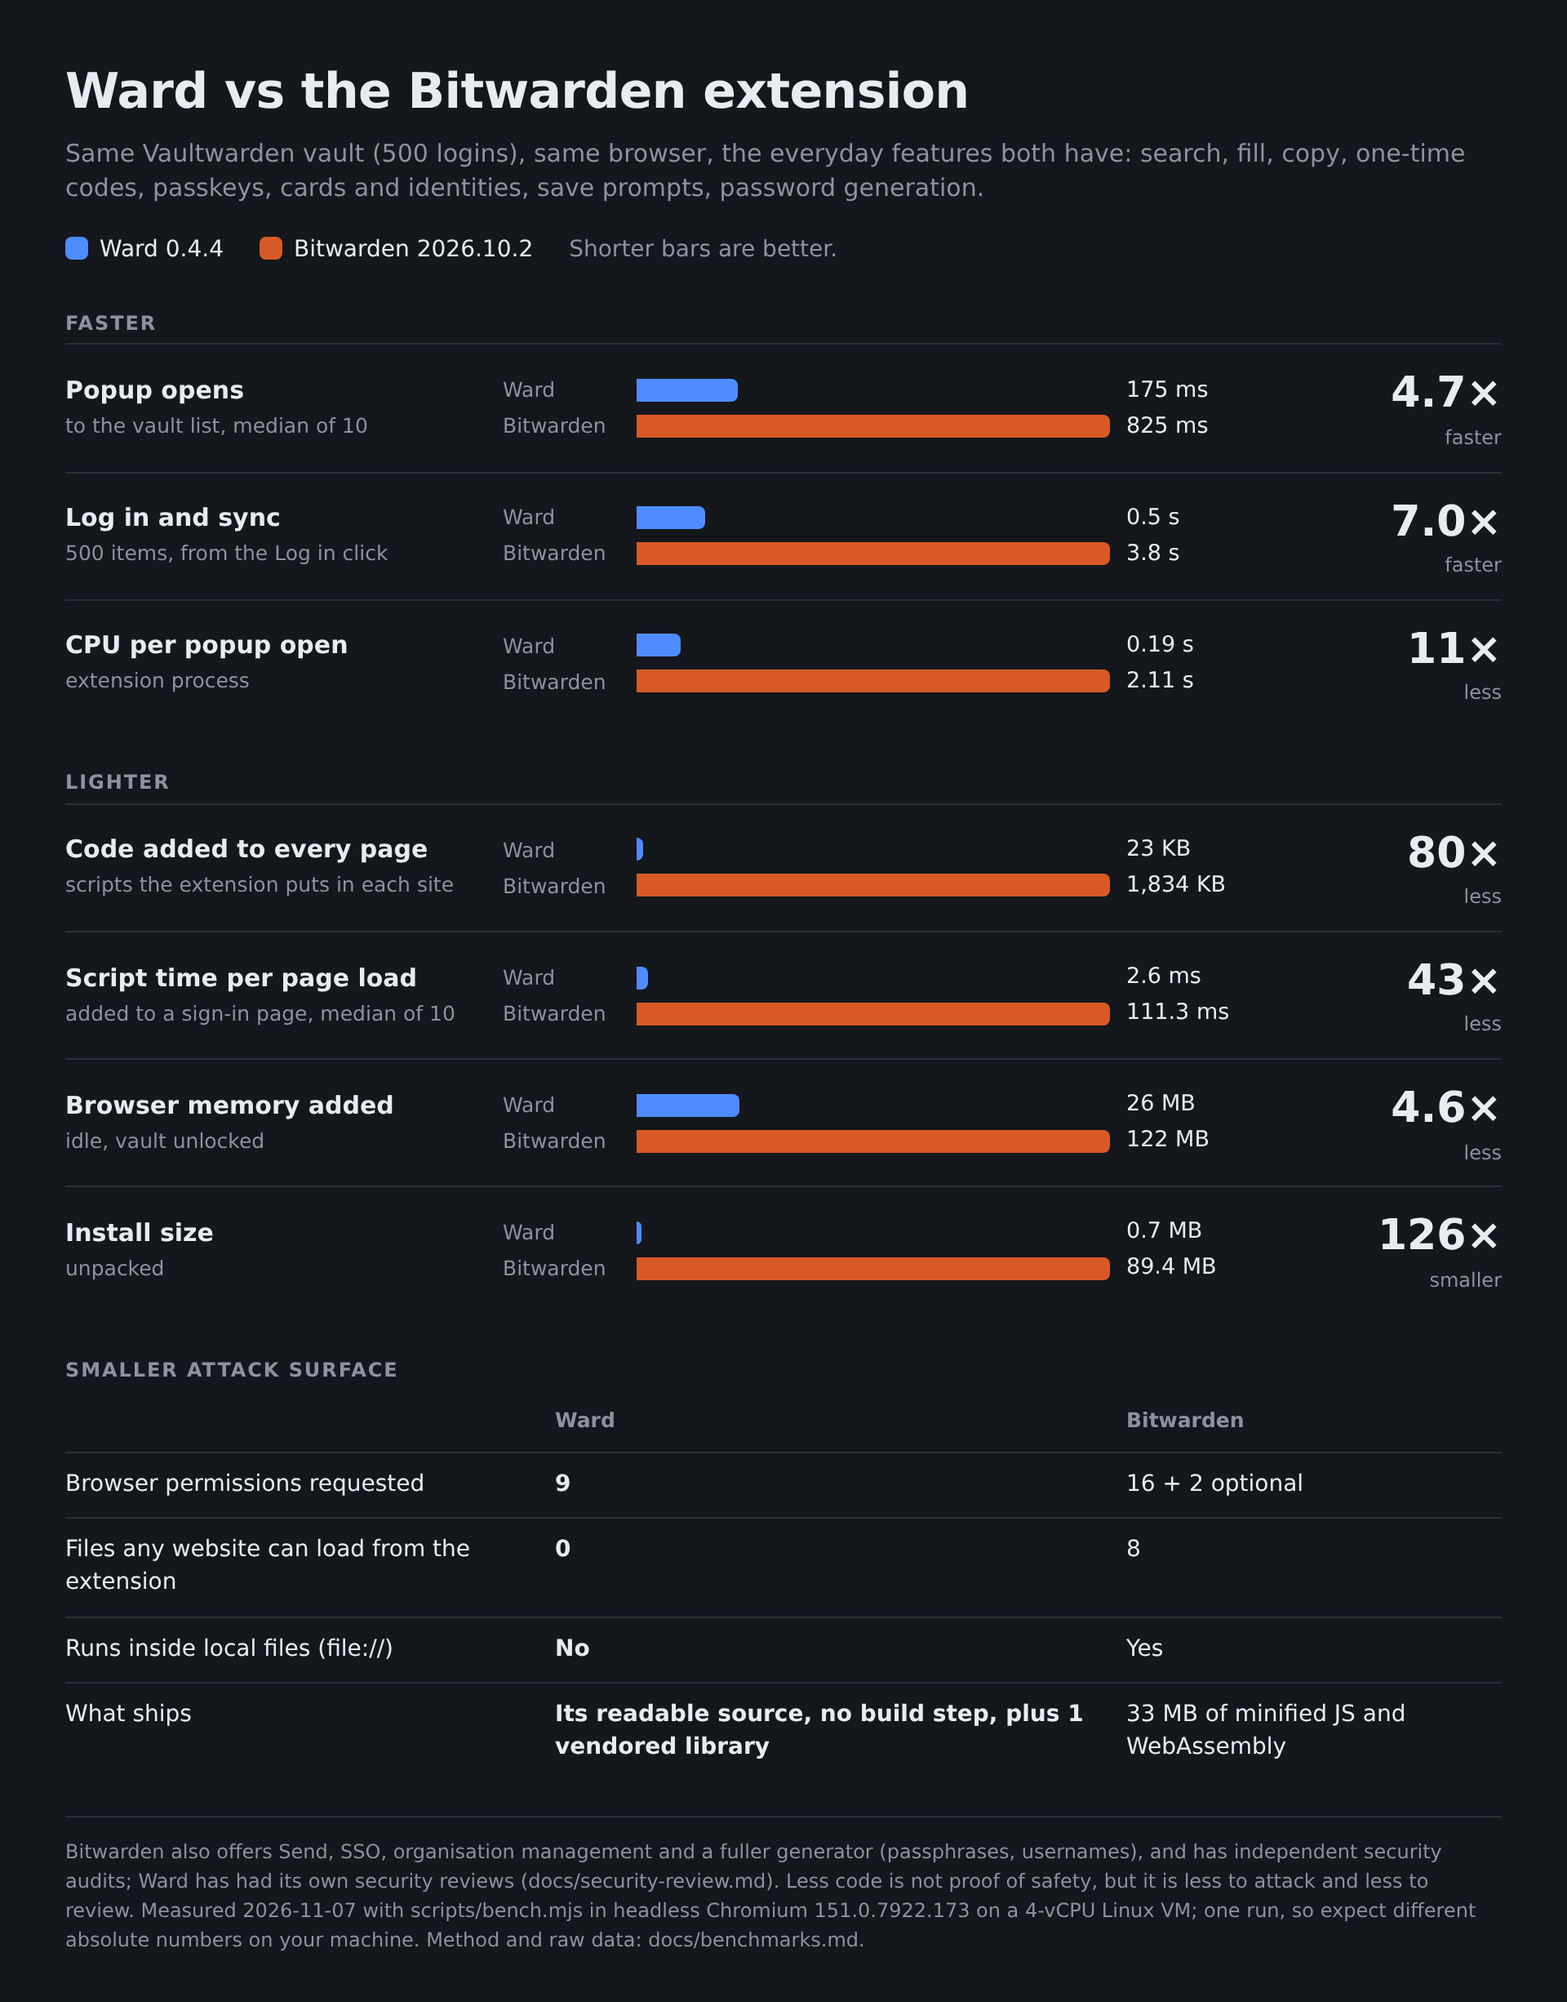
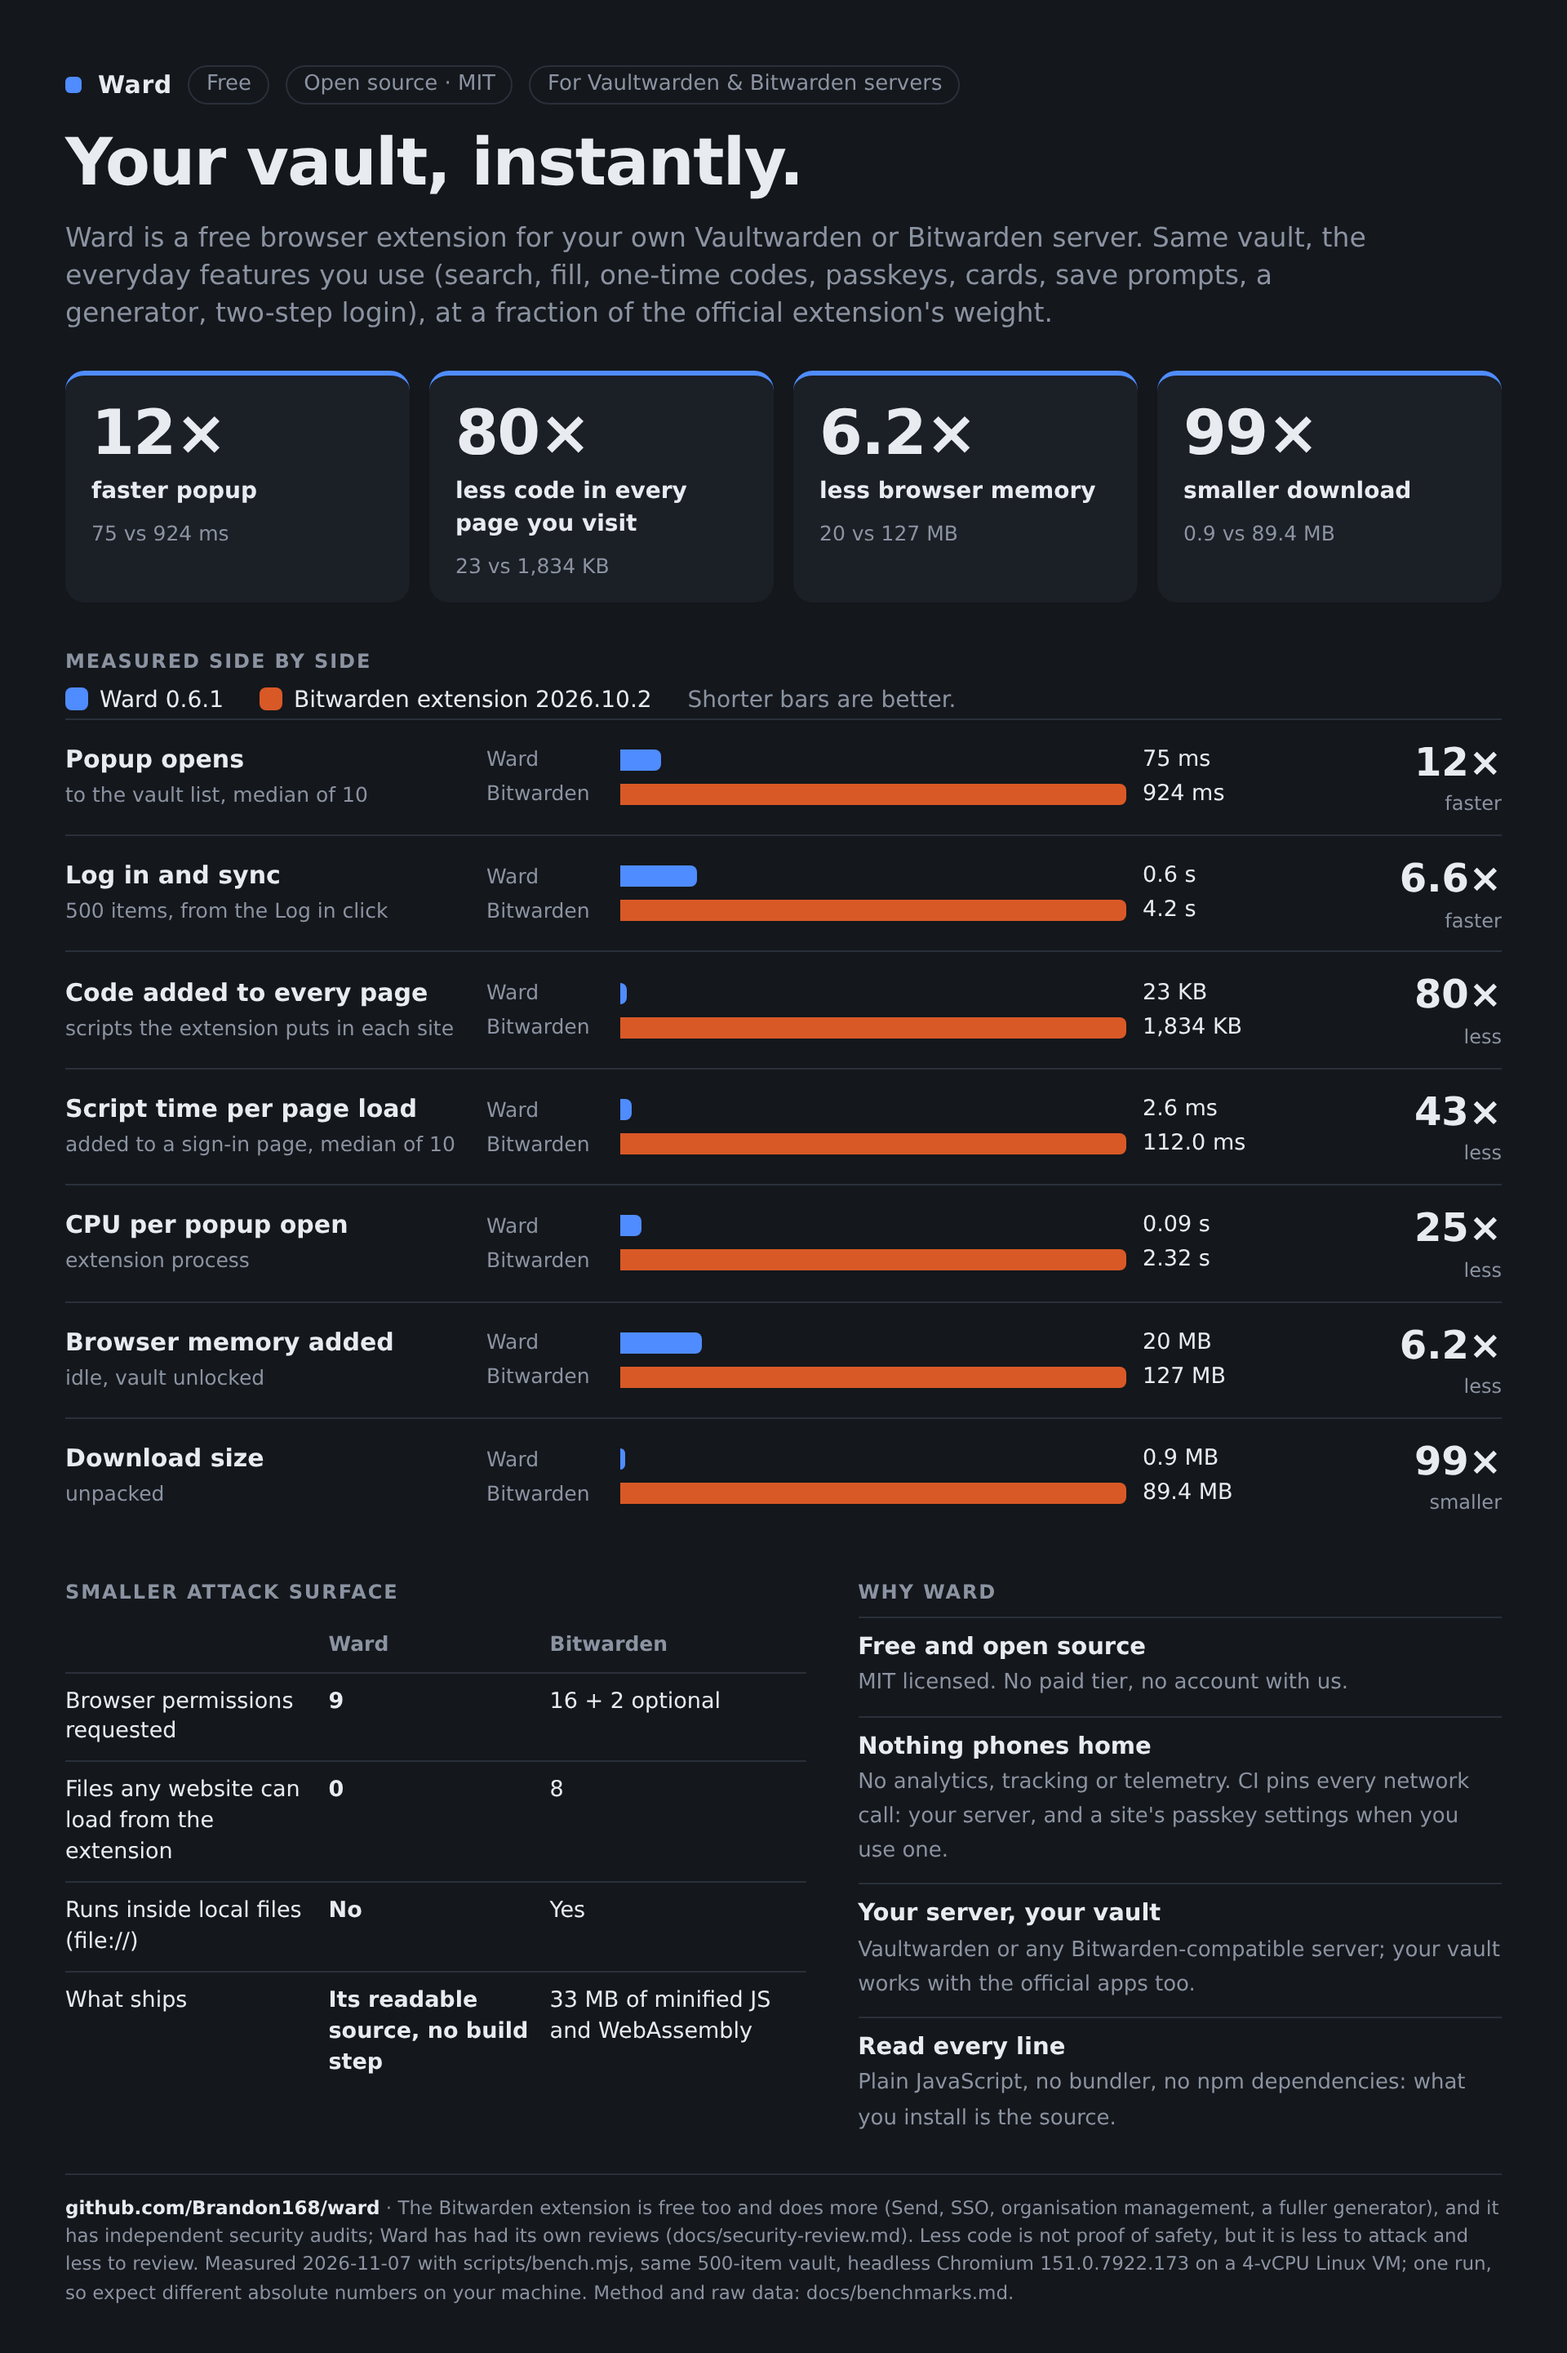
README and comparison image for Ward 0.6.1 vs Bitwarden; search-friendly README; social preview
- Fresh benchmark (Ward 0.6.1 vs Bitwarden 2026.10.2, 500 items): popup 12x faster, 80x less code per page, 6.2x less
  memory, 99x smaller download. docs/benchmarks.md and benchmark-results.json updated.
- Comparison image redesigned to make the case: headline, four headline numbers, the measured bars, attack surface,
  and "Why Ward" (free and MIT, no telemetry, your own server, readable source; each claim checked against the repo).
  The honest footnote stays.
- README: keyword-bearing H1 and opening; the image, its alt text (with the numbers) and the same numbers as a text
  table are generated by compare-image.mjs between compare:start/end markers, so crawlers and screen readers get
  what the image shows. "What it does today" is now "Features".
- docs/social-preview.png (1280x640) for link previews; upload by hand in GitHub Settings > Social preview.
- scripts/cdp.mjs: a script killed by Ctrl-C or timeout now takes its Chromium with it (orphans skewed measurements).

diff --git a/README.md b/README.md
@@ -1,25 +1,42 @@
-# Ward
+# Ward: a fast, lightweight Vaultwarden and Bitwarden browser extension
 
-A fast, lean browser extension for a self-hosted [Vaultwarden](https://github.com/dani-garcia/vaultwarden)
-(or any Bitwarden-compatible) server. The goal is 1Password-style speed and polish on a server you own:
-instant search and fill, offline use, Touch ID unlock, and live sync.
+**Ward is a free, open-source (MIT) password manager extension for Chrome, Vivaldi, Edge, Brave and other Chromium
+browsers**, for your self-hosted [Vaultwarden](https://github.com/dani-garcia/vaultwarden) or any Bitwarden-compatible
+server. It searches and autofills logins, one-time codes (TOTP), passkeys, cards and identities, offers to save new
+logins, generates passwords and passphrases, and handles two-step login, with 1Password-style speed: instant search
+and fill, offline use, Touch ID unlock and live sync.
 
 Ward is plain JavaScript with no framework, no bundler and no npm dependencies. The files in this repository
-are exactly what the browser runs, so a release can be reviewed line by line.
+are exactly what the browser runs, so a release can be reviewed line by line. No analytics, no tracking, no telemetry.
 
 Developed and tested on **Vivaldi on macOS**; any Chromium browser (121 or newer) should work. Firefox is not a
 target yet.
 
-## How it compares
+## Ward vs the Bitwarden browser extension
 
+<!-- compare:start: generated by scripts/compare-image.mjs from docs/benchmark-results.json; edit there, not here -->
 <picture>
 <source media="(prefers-color-scheme: dark)" srcset="docs/ward-vs-bitwarden-dark.png">
-<img src="docs/ward-vs-bitwarden-light.png" width="720" alt="Ward vs the Bitwarden extension on the same 500-item vault: popup opens in 175 ms vs 825 ms (4.7 times faster), log in and sync 0.5 s vs 3.8 s, 23 KB vs 1,834 KB of code added to every page (80 times less), 2.6 ms vs 111 ms script time per page load, 26 MB vs 122 MB browser memory added, 0.7 MB vs 89 MB install size. Attack surface: 9 vs 16 browser permissions, 0 vs 8 files any website can load from the extension, does not run inside local files, ships its readable source.">
+<img src="docs/ward-vs-bitwarden-light.png" width="720" alt="Ward 0.6.1 vs the Bitwarden browser extension 2026.10.2 on the same 500-item vault: popup opens 75 ms vs 924 ms (12 times faster); log in and sync 0.6 s vs 4.2 s (6.6 times faster); code added to every page 23 KB vs 1,834 KB (80 times less); script time per page load 2.6 ms vs 112.0 ms (43 times less); CPU per popup open 0.09 s vs 2.32 s (25 times less); browser memory added 20 MB vs 127 MB (6.2 times less); download size 0.9 MB vs 89.4 MB (99 times smaller). Attack surface: browser permissions requested 9 vs 16 + 2 optional; files any website can load from the extension 0 vs 8; runs inside local files (file://) No vs Yes.">
 </picture>
 
-Same machine, same vault, the everyday features both have. Bitwarden does more (Send, SSO, organisations, a fuller
-generator) and has independent audits, so this isn't a like-for-like feature comparison. Method, caveats and the
-numbers as tables: [docs/benchmarks.md](docs/benchmarks.md).
+| Measured on the same 500-item vault | Ward 0.6.1 | Bitwarden extension 2026.10.2 | |
+|---|---:|---:|---:|
+| Popup opens | **75 ms** | 924 ms | 12× faster |
+| Log in and sync | **0.6 s** | 4.2 s | 6.6× faster |
+| Code added to every page | **23 KB** | 1,834 KB | 80× less |
+| Script time per page load | **2.6 ms** | 112.0 ms | 43× less |
+| CPU per popup open | **0.09 s** | 2.32 s | 25× less |
+| Browser memory added | **20 MB** | 127 MB | 6.2× less |
+| Download size | **0.9 MB** | 89.4 MB | 99× smaller |
+| Browser permissions requested | **9** | 16 + 2 optional | |
+| Files any website can load from the extension | **0** | 8 | |
+| Runs inside local files (file://) | **No** | Yes | |
+<!-- compare:end -->
+
+Same machine, same vault, the everyday features both have. The Bitwarden extension is free too and does more (Send,
+SSO, organisations, a fuller generator) and has independent audits, so this isn't a like-for-like feature comparison.
+Method, caveats and every number: [docs/benchmarks.md](docs/benchmarks.md).
 
 ## Screenshots
 
@@ -36,7 +53,7 @@ Screenshots use sample data (`node scripts/screenshots.mjs`).
 
 ## Status
 
-Early release (0.4.x), not yet widely tested. See [ROADMAP.md](ROADMAP.md) for what's
+Early release (0.6.x), not yet widely tested. See [ROADMAP.md](ROADMAP.md) for what's
 done and next, [Known limitations](#known-limitations) below, and [docs/security-review.md](docs/security-review.md)
 for the security reviews.
 
@@ -49,7 +66,7 @@ for the security reviews.
 The unpacked extension ID is always `nnejaecbmnadljdpinaljbdpfcoocain` (pinned by `key` in `manifest.json`).
 Loading from a specific commit means nothing changes until you pull and reload on purpose.
 
-## What it does today
+## Features
 
 - One list for every type: this site's logins first, then recent items, then everything (filter chips: All, Logins,
   Cards, Identities, Notes). The selected row (this site's best match when Ward opens; any row you click) keeps its

diff --git a/docs/benchmarks.md b/docs/benchmarks.md
@@ -3,26 +3,26 @@
 Measured with [`scripts/bench.mjs`](../scripts/bench.mjs) on 2026-11-07. Raw numbers:
 [benchmark-results.json](benchmark-results.json).
 
-| | Ward 0.4.4 | Bitwarden 2026.10.2 |
+| | Ward 0.6.1 | Bitwarden 2026.10.2 |
 |---|---:|---:|
-| **Popup: open to list** (median of 10) | **175 ms** | 825 ms |
-| **Login: "Log in" click to list** (key derivation, login, full sync; 1 run) | **0.5 s** | 3.8 s |
+| **Popup: open to list** (median of 10) | **75 ms** | 924 ms |
+| **Login: "Log in" click to list** (key derivation, login, full sync; 1 run) | **0.6 s** | 4.2 s |
 | **Code added to every page** | **23 KB** | 1,834 KB |
-| **Script time added per page load** | **+2.6 ms** | +111 ms |
-| **Main-thread time added per page load** | **+11 ms** | +181 ms |
-| **Browser memory added** (whole browser, idle, unlocked) | **+26 MB** | +122 MB |
-| **Extension process memory** (idle, unlocked) | **34 MB** | 109 MB |
-| **Background worker JS heap** (after garbage collection) | **1.6 MB** | 19 MB |
-| **Popup JS heap** | **5.8 MB** | 45 MB |
-| **CPU per popup open** (extension process) | **0.19 s** | 2.1 s |
-| **CPU while idle for 2 min** (extension process) | **0.06 s** | 0.14 s |
-| **Download size** (unpacked) | **0.7 MB**, 26 files | 89 MB, 200 files |
+| **Script time added per page load** | **+2.6 ms** | +112 ms |
+| **Main-thread time added per page load** | **+8 ms** | +179 ms |
+| **Browser memory added** (whole browser, idle, unlocked) | **+20 MB** | +127 MB |
+| **Extension process memory** (idle, unlocked) | **47 MB** | 131 MB |
+| **Background worker JS heap** (after garbage collection) | **1.1 MB** | 19 MB |
+| **Popup JS heap** | **5.0 MB** | 46 MB |
+| **CPU per popup open** (extension process) | **0.09 s** | 2.3 s |
+| **CPU while idle for 2 min** (extension process) | **0.05 s** | 0.13 s |
+| **Download size** (unpacked) | **0.9 MB**, 31 files | 89 MB, 200 files |
 
 As an image: [light](ward-vs-bitwarden-light.png), [dark](ward-vs-bitwarden-dark.png)
 (`node scripts/compare-image.mjs`, from [benchmark-results.json](benchmark-results.json)).
 
 "Added" figures are compared with the same browser with no extension (page script time 0 ms, main-thread time
-23.7 ms per load, browser memory 305 MB).
+24.8 ms per load, browser memory 458 MB).
 
 ## Attack surface
 

diff --git a/AGENTS.md b/AGENTS.md
@@ -11,7 +11,7 @@ findings privately). Start with README.md, ROADMAP.md, docs/security-review.md a
 - Remotes: `origin` is Brandon168/ward; `upstream` is BW Lite with push disabled. `gh repo set-default`
   is Brandon168/ward (otherwise gh resolves the `upstream` remote).
 - Version lives in `manifest.json`; bump it with user-visible changes and mention it in the commit subject, e.g. `(0.4.1)`.
-  ROADMAP.md lists shipped versions; update README "What it does today" and docs/TESTING.md when behaviour changes.
+  ROADMAP.md lists shipped versions; update README "Features" and docs/TESTING.md when behaviour changes.
 - Commit or push only when the user asks. Never tag or release unless asked.
 
 ## Checks
@@ -54,8 +54,10 @@ Preview:
   storage, clipboard or Web Locks.
 - `node scripts/screenshots.mjs` regenerates the README screenshots (`docs/screenshots/`) from those previews. Rerun
   it when a change alters what they show.
-- `docs/ward-vs-bitwarden-{light,dark}.png` (README "How it compares") come from `node scripts/compare-image.mjs`,
-  which reads `docs/benchmark-results.json`; rerun it after a new `scripts/bench.mjs` run. Keep every claim in it
-  measured or read from the manifests.
+- `node scripts/compare-image.mjs` turns `docs/benchmark-results.json` (from `scripts/bench.mjs`) into
+  `docs/ward-vs-bitwarden-{light,dark}.png`, `docs/social-preview.png` (uploaded by hand: GitHub Settings > Social
+  preview) and the README block between `<!-- compare:start -->` and `<!-- compare:end -->` (image, alt text, text
+  table for search engines and screen readers). Never edit that block by hand. Keep every claim measured or read
+  from the manifests or the repository.
 - docs/design/ holds SYSTEM.md, the original UI mockups (option E was chosen) and 0.4.0 screenshots.
 - The popup refuses to run framed; only the generated preview drops that check. Never weaken it in popup.js.
